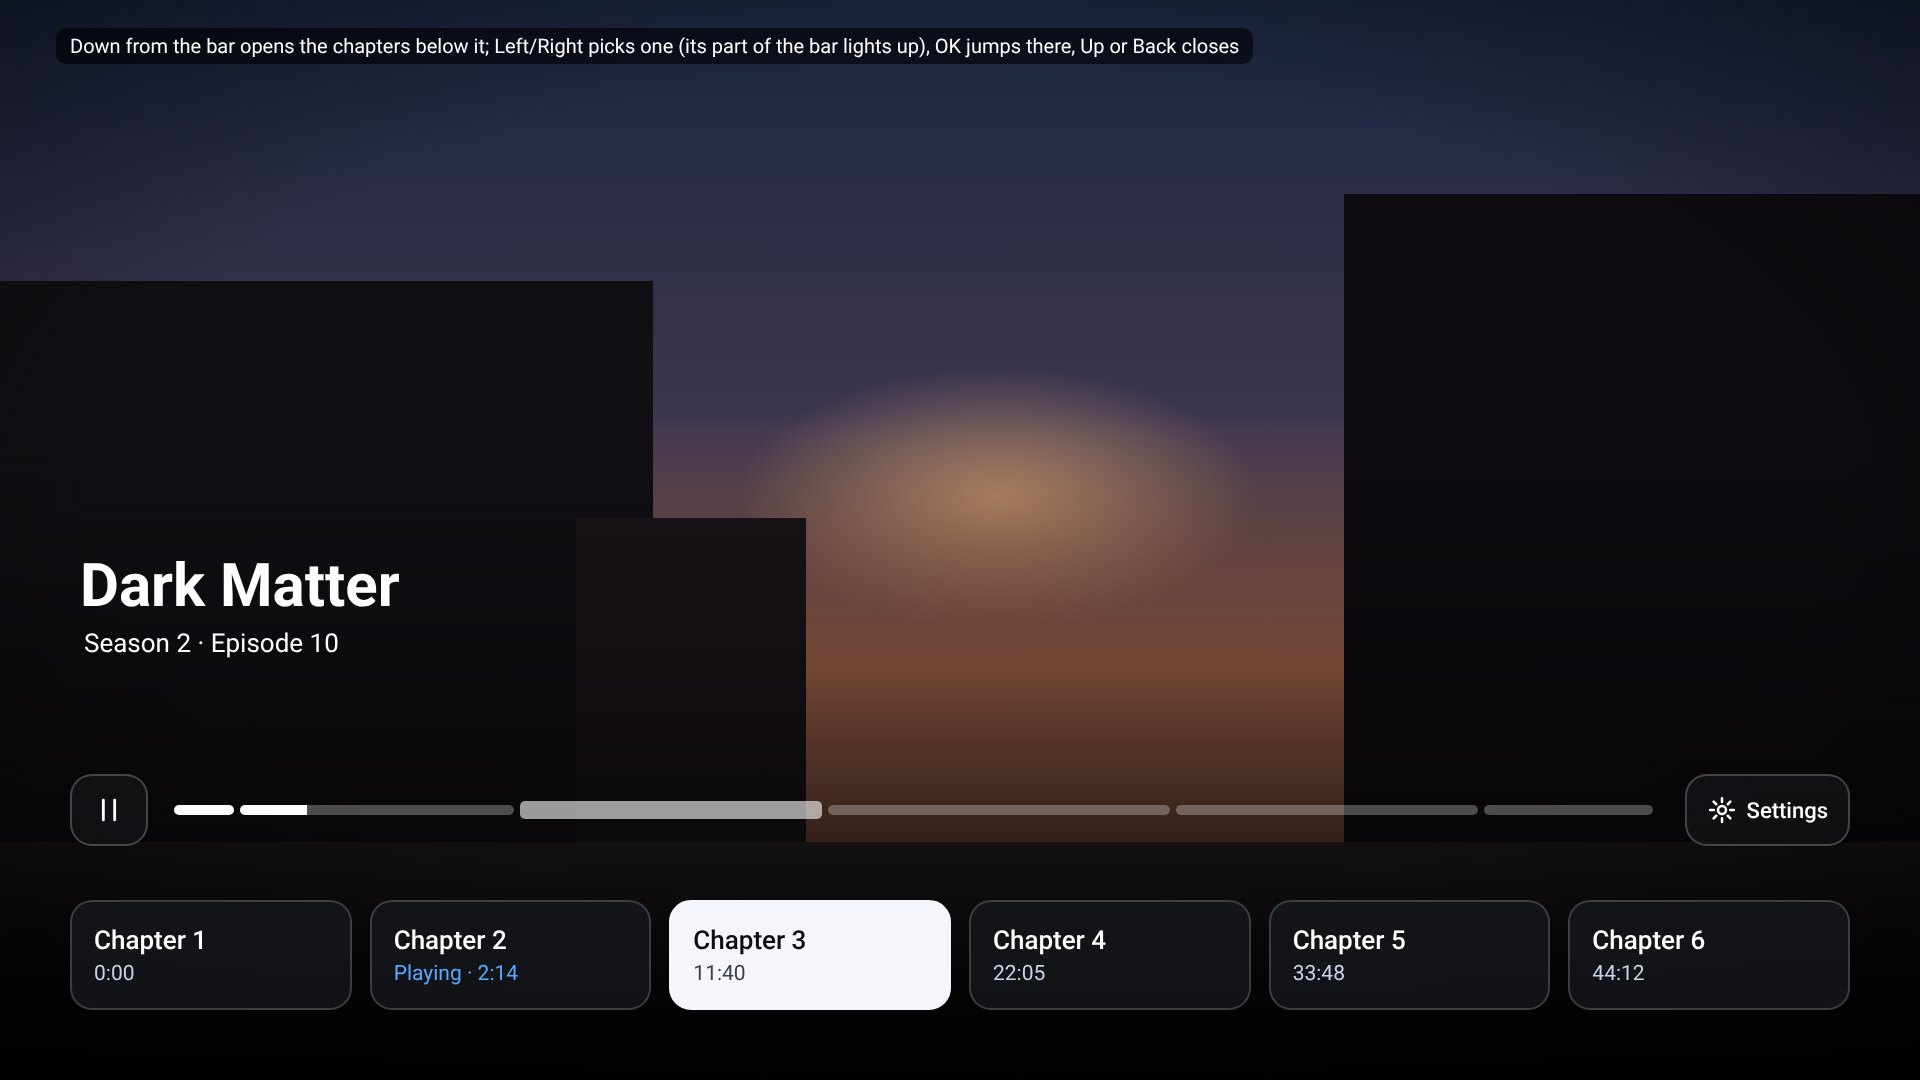
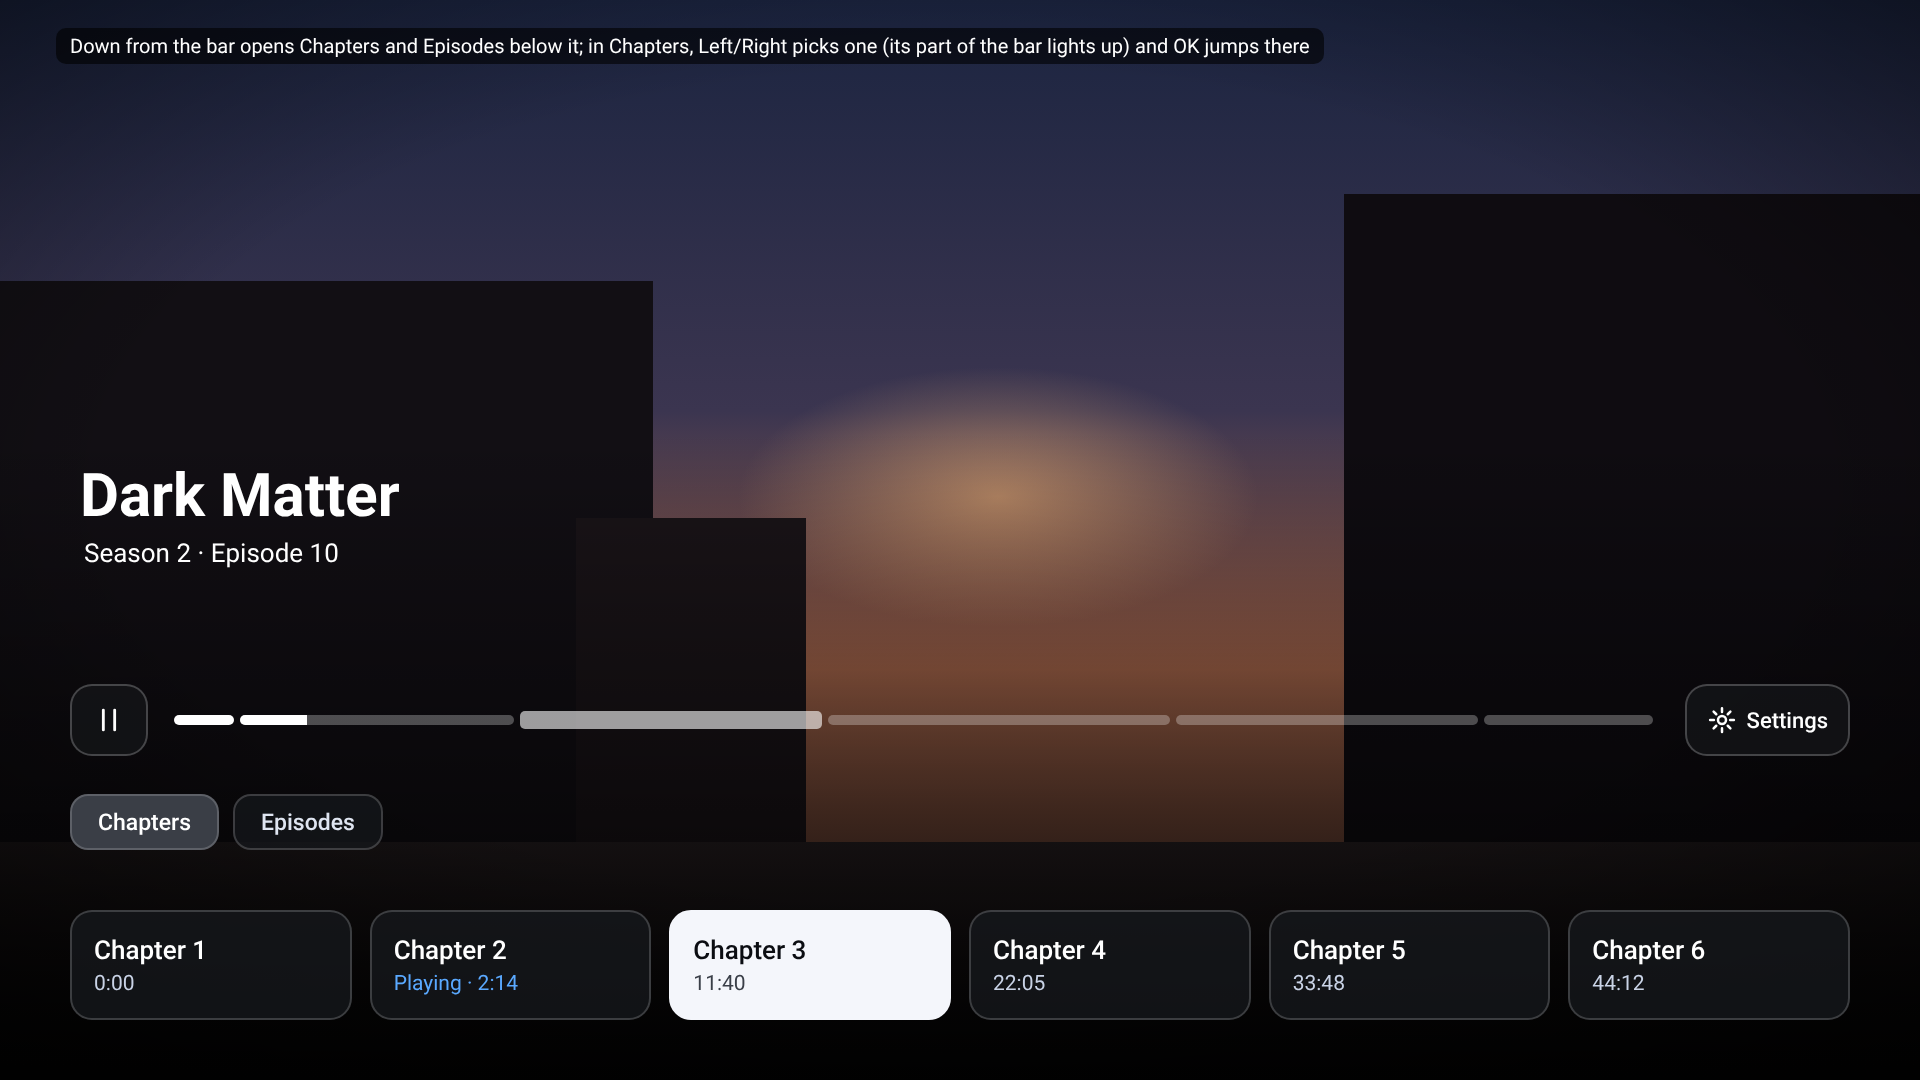
Playback strip: Chapters and Episodes tabs below the progress bar
Claude-Session: https://claude.ai/code/session_01FtDZqamY6pdaUKwc7fqgiA

diff --git a/docs/design/proposals/chapters/render.js b/docs/design/proposals/chapters/render.js
@@ -9,6 +9,7 @@ const ic = (k, s = 30) => `<svg width="${s}" height="${s}" viewBox="0 0 24 24" f
 // A stand-in film frame (no real artwork): dusky street scene in gradients.
 const frame = `<div class="video"><i class="sky"></i><i class="glow"></i><i class="b1"></i><i class="b2"></i><i class="b3"></i><i class="road"></i><i class="vig"></i></div>`;
 const ch = [['Chapter 1', 0, '0:00'], ['Chapter 2', 2.23, '2:14'], ['Chapter 3', 11.67, '11:40'], ['Chapter 4', 22.08, '22:05'], ['Chapter 5', 33.8, '33:48'], ['Chapter 6', 44.2, '44:12']];
+const eps = [['Episode 8', '43 min', 'w'], ['Episode 9', '43 min', 'w'], ['Episode 10', '50 min', 'p'], ['Episode 11', '44 min', ''], ['Episode 12', '43 min', ''], ['Episode 13', '44 min', '']];
 const LEN = 50.1, NOW = 4.53;
 const segs = (focus) => ch.map(([n, s], i) => { const e = i + 1 < ch.length ? ch[i + 1][1] : LEN; const w = (e - s) / LEN * 100, l = s / LEN * 100;
   const played = Math.max(0, Math.min(1, (NOW - s) / (e - s)));
@@ -16,10 +17,13 @@ const segs = (focus) => ch.map(([n, s], i) => { const e = i + 1 < ch.length ? ch
 const hud = (focus, strip) => `<div class="htitle${strip ? ' up' : ''}">Dark Matter</div><div class="hsub${strip ? ' up' : ''}">Season 2 · Episode 10</div>
   <div class="hud${strip ? ' up' : ''}"><div class="hb">${ic('pause', 34)}</div><div class="bar">${segs(focus)}<div class="thumb${strip ? ' off' : ''}" style="left:${NOW / LEN * 100}%"></div>
   ${strip ? '' : `<div class="bubble" style="left:${NOW / LEN * 100}%"><b>00:04:32</b><span>Chapter 2</span></div>`}</div><div class="hb">${ic('gear', 30)}<span>Settings</span></div></div>` +
-  (strip ? `<div class="strip">${ch.map(([n, s, t], i) => `<div class="cc${i === focus ? ' f' : ''}${i === 1 ? ' now' : ''}"><b>${n}</b><span>${i === 1 ? 'Playing · ' : ''}${t}</span></div>`).join('')}</div>` : '');
+  (strip === 'ch' ? tabsRow(0) + `<div class="strip">${ch.map(([n, s, t], i) => `<div class="cc${i === focus ? ' f' : ''}${i === 1 ? ' now' : ''}"><b>${n}</b><span>${i === 1 ? 'Playing · ' : ''}${t}</span></div>`).join('')}</div>` : '') +
+  (strip === 'ep' ? tabsRow(1) + `<div class="strip">${eps.map(([n, t, st], i) => `<div class="ec${i === 2 ? ' f' : ''}"><div class="still s${i}">${st === 'w' ? '<em>Watched</em>' : ''}${st === 'p' ? '<i class="pg"><b style="width:9%"></b></i>' : ''}</div><b>${n}</b><span class="${st === 'p' ? 'now' : ''}">${st === 'p' ? 'Playing · ' : ''}${t}</span></div>`).join('')}</div>` : '');
+const tabsRow = open => `<div class="ptabs">${['Chapters', 'Episodes'].map((t, i) => `<span class="${i === open ? 'open' : ''}">${t}</span>`).join('')}</div>`;
 const shots = [
   ['01-bar-with-chapters.png', frame + `<div class="shade"></div>` + hud(-1, false), 'The progress bar is split at each chapter; the time bubble names the chapter you are in'],
-  ['02-chapter-strip.png', frame + `<div class="shade tall"></div>` + hud(2, true), 'Down from the bar opens the chapters below it; Left/Right picks one (its part of the bar lights up), OK jumps there, Up or Back closes'],
+  ['02-chapter-strip.png', frame + `<div class="shade tall"></div>` + hud(2, 'ch'), 'Down from the bar opens Chapters and Episodes below it; in Chapters, Left/Right picks one (its part of the bar lights up) and OK jumps there'],
+  ['03-episode-strip.png', frame + `<div class="shade tall"></div>` + hud(-1, 'ep'), 'Episodes: this season, opened at the one playing; watched ones say so; OK plays the chosen episode'],
 ];
 const css = `${font(400)}${font(500)}${font(700)}*{box-sizing:border-box;margin:0}
 body{width:1920px;height:1080px;overflow:hidden;font-family:R;color:#fff;position:relative;background:#000}
@@ -48,8 +52,14 @@ body{width:1920px;height:1080px;overflow:hidden;font-family:R;color:#fff;positio
 .bubble b{display:block;font-size:30px;font-weight:500}.bubble span{display:block;font-size:19px;color:#c9d3e6;margin-top:2px}
 .seg{position:absolute;top:0;bottom:0;border-radius:5px;background:rgba(255,255,255,.28);overflow:hidden}.seg b{display:block;height:100%;background:#fff}.seg.hi{background:rgba(255,255,255,.6);top:-4px;bottom:-4px}
 .bar{background:none!important}.thumb.off{display:none}
-.hud.up{bottom:230px}.htitle.up{top:550px}.hsub.up{top:628px}.shade.tall{background:linear-gradient(0deg,rgba(0,0,0,.85) 0%,rgba(0,0,0,0) 60%)}
-.strip{position:absolute;left:70px;right:70px;bottom:70px;display:flex;gap:18px}
+.hud.up{bottom:320px}.htitle.up{top:460px}.hsub.up{top:538px}.shade.tall{background:linear-gradient(0deg,rgba(0,0,0,.85) 0%,rgba(0,0,0,0) 60%)}
+.strip{position:absolute;left:70px;right:70px;bottom:60px;display:flex;gap:18px}
+.ptabs{position:absolute;left:70px;bottom:230px;display:flex;gap:14px}.ptabs span{height:56px;padding:0 26px;border-radius:18px;background:rgba(22,24,28,.7);border:2px solid rgba(255,255,255,.18);display:flex;align-items:center;font-size:23px;font-weight:500;color:#dfe5f1}.ptabs span.open{background:#3a3e46;color:#fff}
+.ec{flex:1;min-width:0;border-radius:22px;padding:10px;background:rgba(22,24,28,.78);border:2px solid rgba(255,255,255,.18)}.ec.f{background:#F4F6FB;border-color:#F4F6FB}.ec.f b{color:#0B0D12}.ec.f span{color:#3a3f48}
+.ec b{display:block;font-size:22px;font-weight:500;margin:8px 6px 0}.ec span{display:block;font-size:19px;color:#c9d3e6;margin:2px 6px 4px}.ec span.now{color:#5aa9ff}
+.still{position:relative;height:64px;border-radius:14px;overflow:hidden}.still em{position:absolute;right:8px;top:8px;font-style:normal;font-size:16px;font-weight:500;background:rgba(0,0,0,.6);padding:3px 10px;border-radius:9px}
+.still .pg{position:absolute;left:8px;right:8px;bottom:8px;height:5px;border-radius:3px;background:rgba(255,255,255,.35)}.still .pg b{display:block;height:100%;margin:0;background:#2fb7d8;border-radius:3px}
+.s0{background:linear-gradient(135deg,#3b4a63,#1b2230)}.s1{background:linear-gradient(135deg,#5a3d34,#22191a)}.s2{background:linear-gradient(135deg,#2f5560,#162428)}.s3{background:linear-gradient(135deg,#4c3e66,#1d1828)}.s4{background:linear-gradient(135deg,#355c3f,#17231a)}.s5{background:linear-gradient(135deg,#66503a,#241c15)}
 .cc{flex:1;height:110px;border-radius:22px;background:rgba(22,24,28,.78);border:2px solid rgba(255,255,255,.18);padding:18px 22px;display:flex;flex-direction:column;justify-content:center}
 .cc b{font-size:26px;font-weight:500}.cc span{font-size:21px;color:#c9d3e6;margin-top:6px}.cc.now span{color:#5aa9ff}
 .cc.f{background:#F4F6FB;border-color:#F4F6FB}.cc.f b{color:#0B0D12}.cc.f span{color:#3a3f48}

diff --git a/docs/0.155/OWNER_NOTES.md b/docs/0.155/OWNER_NOTES.md
@@ -519,7 +519,10 @@ Codex's branch `codex/0155-code-2026-11-04` (DP-01…DP-07, TV-only stages). **N
 - **Mock-ups** `docs/design/proposals/chapters/01`–`02` (redone): the progress bar is split into one segment per
   chapter and the time bubble names the chapter; Down from the bar opens a strip of chapter cards below it (name, start
   time, "Playing" on the current one); Left/Right picks a card and its segment of the bar lights up; OK jumps; Up or
-  Back closes. Only when the video has chapters; with more than six the strip scrolls. Awaiting review.
+  Back closes. Only when the video has chapters; with more than six the strip scrolls.
+- **Episodes too** (owner, `03`): Down from the bar opens two tabs, **Chapters · Episodes**. Episodes shows this season's
+  episodes with their stills, opened at the one playing ("Playing", progress line); watched ones say Watched; OK plays
+  the chosen one. Each tab appears only when it has something (films get Chapters only). Awaiting review.
 - Licence header spacing loosened (owner: too tight) — `32`.
 - **OMDb lookups (owner question):** one lookup each time a Details page opens (`PreviewDetailsData.java:236–240`),
   not per title added; nothing is kept, so reopening the same title looks it up again. Proposal: remember ratings for a
